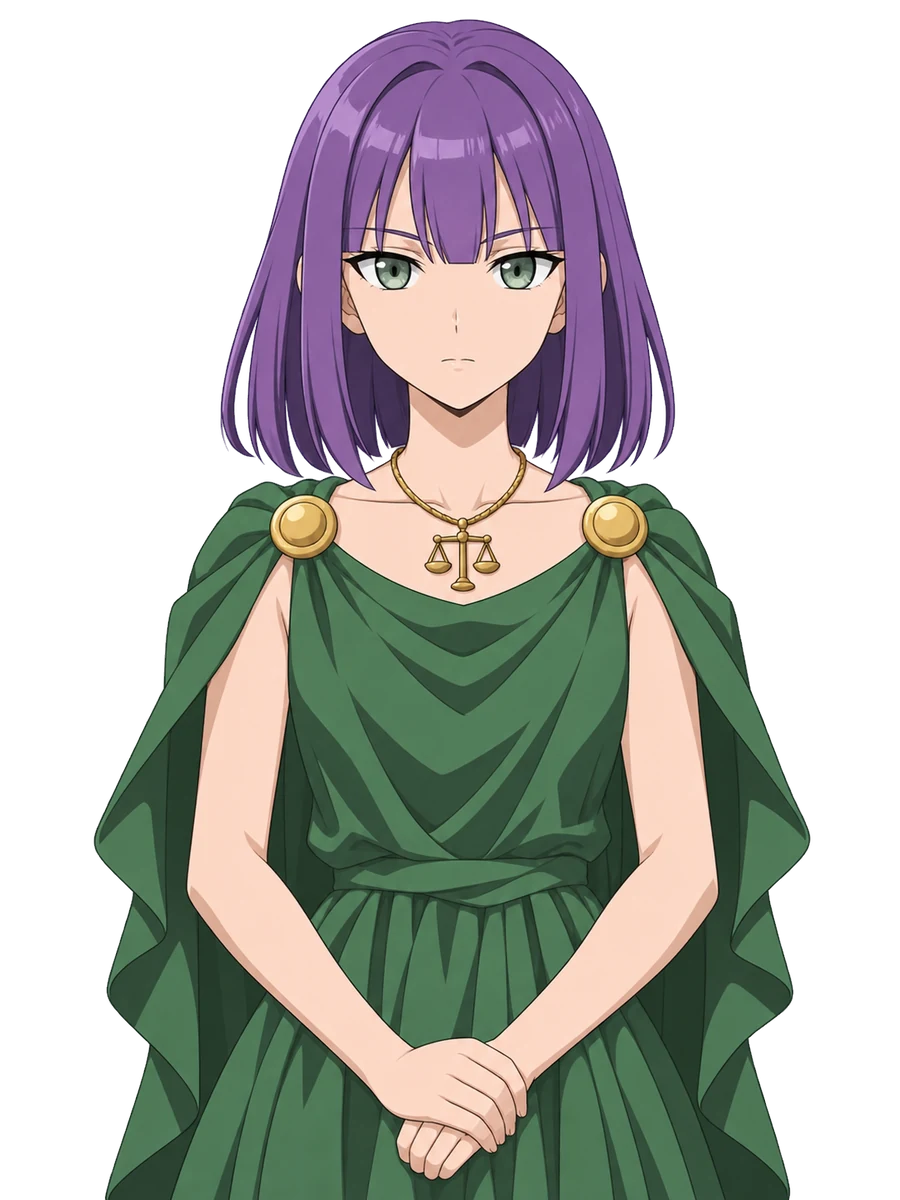
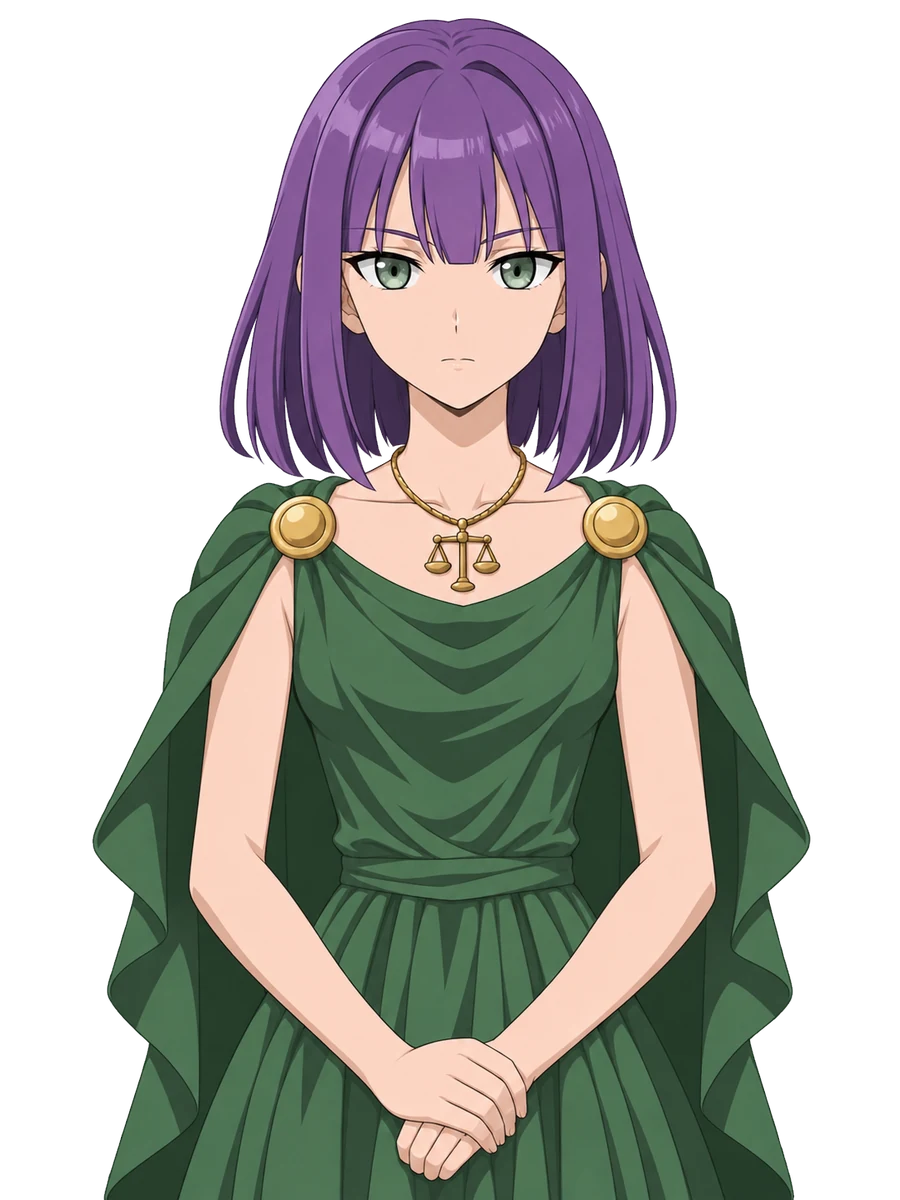
女性6人の会話用の上半身（ふつう）を描き直した絵に差し替える
Claude-Session: https://claude.ai/code/session_016fk9NvoXWiMDchST95bpzh

diff --git a/src/data/story.ts b/src/data/story.ts
@@ -192,16 +192,16 @@ export const STAGE_SCENES: Record<string, { before?: string; after?: string }> =
 /** 会話用の上半身の絵（表情ごと）。届いた分だけ入れる。無い表情・キャラは、立ち絵の上半身を切り出して使う */
 // 2026-11-05：12人の「ふつう」を入れた（ほかの表情はまだ。無い表情は「ふつう」を使う）
 export const PORTRAIT_ART: Partial<Record<HeroId, Partial<Record<Expression, string>>>> = {
-  aries: { normal: 'art/portraits/aries-normal.webp?v=1' },
-  taurus: { normal: 'art/portraits/taurus-normal.webp?v=1' },
-  gemini: { normal: 'art/portraits/gemini-normal.webp?v=1' },
-  cancer: { normal: 'art/portraits/cancer-normal.webp?v=1' },
-  leo: { normal: 'art/portraits/leo-normal.webp?v=1' },
-  virgo: { normal: 'art/portraits/virgo-normal.webp?v=1' },
-  libra: { normal: 'art/portraits/libra-normal.webp?v=1' },
-  scorpio: { normal: 'art/portraits/scorpio-normal.webp?v=1' },
-  sagittarius: { normal: 'art/portraits/sagittarius-normal.webp?v=1' },
-  capricorn: { normal: 'art/portraits/capricorn-normal.webp?v=1' },
-  aquarius: { normal: 'art/portraits/aquarius-normal.webp?v=1' },
-  pisces: { normal: 'art/portraits/pisces-normal.webp?v=1' },
+  aries: { normal: 'art/portraits/aries-normal.webp?v=2' },
+  taurus: { normal: 'art/portraits/taurus-normal.webp?v=2' },
+  gemini: { normal: 'art/portraits/gemini-normal.webp?v=2' },
+  cancer: { normal: 'art/portraits/cancer-normal.webp?v=2' },
+  leo: { normal: 'art/portraits/leo-normal.webp?v=2' },
+  virgo: { normal: 'art/portraits/virgo-normal.webp?v=2' },
+  libra: { normal: 'art/portraits/libra-normal.webp?v=2' },
+  scorpio: { normal: 'art/portraits/scorpio-normal.webp?v=2' },
+  sagittarius: { normal: 'art/portraits/sagittarius-normal.webp?v=2' },
+  capricorn: { normal: 'art/portraits/capricorn-normal.webp?v=2' },
+  aquarius: { normal: 'art/portraits/aquarius-normal.webp?v=2' },
+  pisces: { normal: 'art/portraits/pisces-normal.webp?v=2' },
 };
